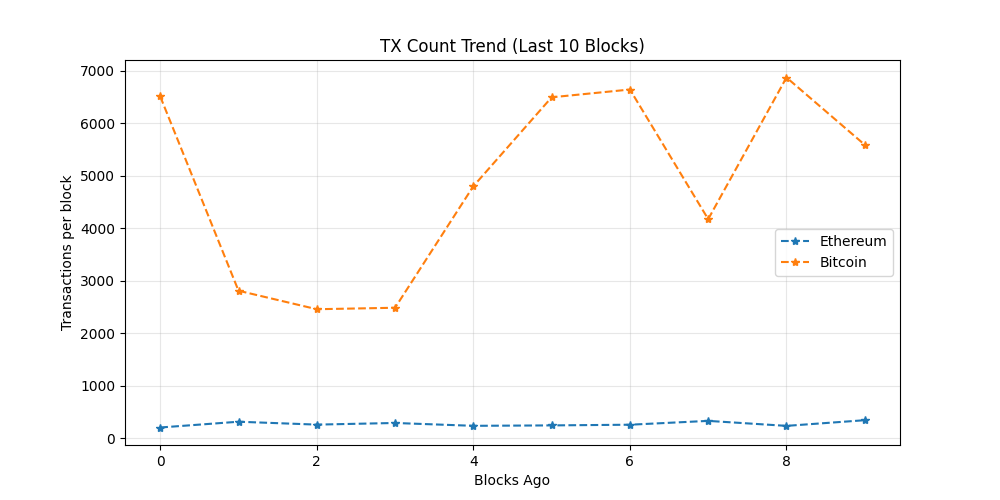
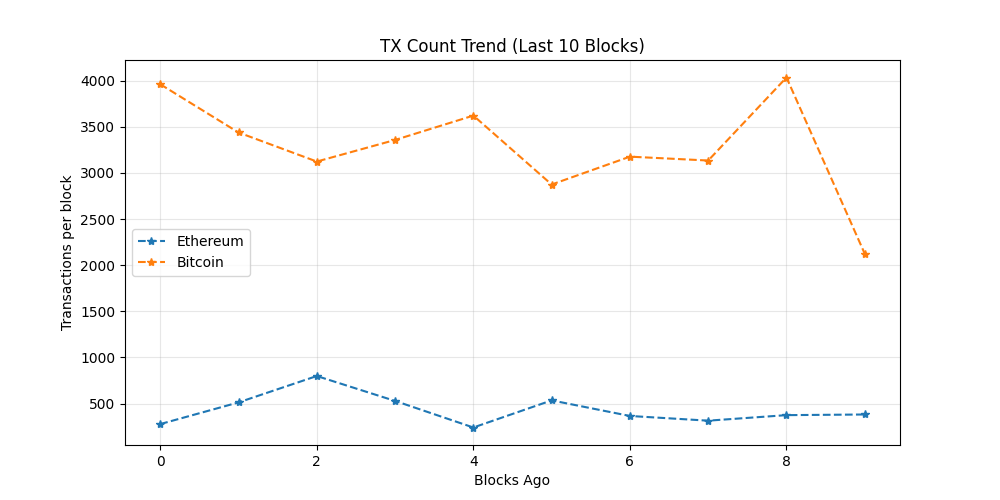
chore: update on-chain dashboard

diff --git a/README.md b/README.md
@@ -19,7 +19,7 @@ The README itself acts as the dashboard and is regenerated automatically on a 6 
 demonstrating a production-style, infrastructure-focused observability workflow rather
 than a traditional UI-driven approach.
 
-_Last updated: 2026-11-26 08:12 UTC_
+_Last updated: 2026-11-26 21:28 UTC_
 
 ## API Usage (GetBlock.io)
 - Calls used: **24**
@@ -27,8 +27,8 @@ _Last updated: 2026-11-26 08:12 UTC_
 ## Network Metrics
 | Chain | Block Height | TX Count | TPS (10 blk avg) | Block Util | Avg Fee |
 |------|-------------|----------|------------------|------------|---------|
-| Ethereum | 26498093 | 342 | 28.5 | 43.63% | 0.1 Gwei |
-| Bitcoin | 977650 | 5585 | 20.53 | 99.8% | N/A |
+| Ethereum | 26502062 | 382 | 31.83 | 54.79% | 0.1 Gwei |
+| Bitcoin | 977712 | 2124 | 4.15 | 99.8% | N/A |
 
 ## Visuals
 ### Transactions Trend
@@ -43,10 +43,11 @@ _Last updated: 2026-11-26 08:12 UTC_
 ## Whale Alerts (latest block)
 - Transaction hashes are truncated for readability.
 - Full hashes are available in `dashboards/metrics.json`
-- Bitcoin | 231.66 BTC | `754b474d9825…`
-- Bitcoin | 315.0 BTC | `62d4856cc2d0…`
-- Bitcoin | 315.0 BTC | `571a49ceb205…`
-- Bitcoin | 646.66 BTC | `0277b6635857…`
+- Bitcoin | 2489.7 BTC | `e256f7f049ba…`
+- Bitcoin | 113.0 BTC | `f26cc7f2f3fb…`
+- Bitcoin | 135.0 BTC | `e3c296dd65da…`
+- Bitcoin | 179.02 BTC | `2be288444980…`
+- Bitcoin | 179.02 BTC | `8b1797901920…`
 
 ## Run locally
 
